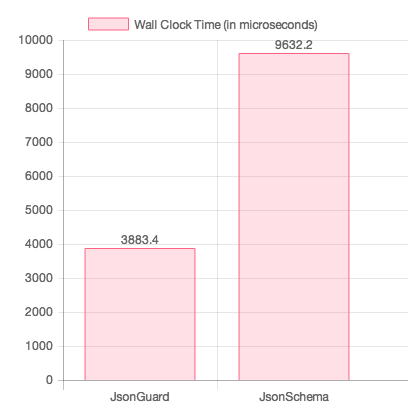
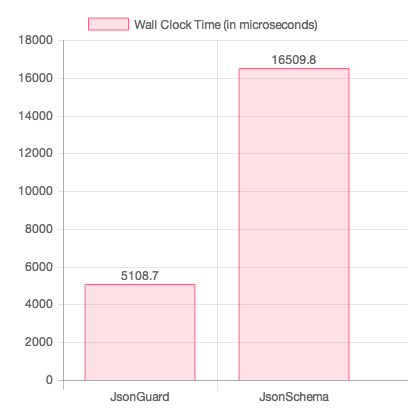
Rebuild readme when generating reports

diff --git a/README.md b/README.md
@@ -4,19 +4,82 @@
 
 This repo is a (WIP) benchmark of JSON Schema validators for PHP.
 
-## Tests
+## Meta Schema Validaton
 
-### Meta Validation
+### Introduction
 
-This test validates the [JSON Schema Meta-Schema](http://json-schema.org/documentation.html) against itself.
+This test checks the performance of validating the meta schema which defines JSON Schema against itself.  The meta schema contains a lot of references and most (all?) allowed validation keywords, so it's a pretty good way to check performance.
 
-[View Results](reports/validating-the-meta-schema.md)
+### Time To Validate
 
-### Composer
+![validation-speed](/reports/validating-the-meta-schema-wt.png)
 
-This test validates the `composer.json` schema used by Composer against sample data.
+| Validator | Wall Clock Time (in microseconds) |
+|-----------|:---------------------------------:|
+| JsonGuard | 15802.8 |
+| JsonSchema | 96509.7 |
 
-[View Results](reports/validating-composer.md)
+### Memory usage
+
+![validation-memory-usage](/reports/validating-the-meta-schema-pmu.png)
+
+| Validator | Peak Memory Usage (in bytes) |
+|-----------|:----------------------------:|
+| JsonGuard | 138158.4 |
+| JsonSchema | 162374.4 |
+
+## Draft Four Compliance
+
+### Description
+
+This test uses the official JSON Schema test suite to determine the validator's compliance with the official Draft 4 specification.
+
+### Results
+
+![test-failures](/reports/draft-four-compliance-failures.png)
+
+| Validator | Total Test Failures |
+|-----------|:---------------------------------:|
+| JsonGuard | 0 |
+| JsonSchema | 6 |
+
+
+### JsonGuard
+
+No test failures.
+
+### JsonSchema
+
+* change resolution scope : changed scope ref valid
+* change resolution scope : changed scope ref valid
+* change resolution scope : changed scope ref invalid
+* integer : a bignum is an integer
+* number : a bignum is a number
+* string : a bignum is not a string
+
+## Composer Schema Validaton
+
+### Introduction
+
+This test checks the performance of validating a composer.json file against the schema the composer project uses.  This test was picked because it's an actual schema being used for a single file without references.  This should give a decent indication of performance when validating without references.
+
+### Time To Validate
+
+![validation-speed](/reports/validating-composer-wt.png)
+
+| Validator | Wall Clock Time (in microseconds) |
+|-----------|:---------------------------------:|
+| JsonGuard | 5108.7 |
+| JsonSchema | 16509.8 |
+
+### Memory usage
+
+![validation-memory-usage](/reports/validating-composer-pmu.png)
+
+| Validator | Peak Memory Usage (in bytes) |
+|-----------|:----------------------------:|
+| JsonGuard | 143384 |
+| JsonSchema | 170696 |
 
 ## Credits
 

diff --git a/templates/README.md b/templates/README.md
@@ -1,0 +1,34 @@
+# JSON Schema Benchmark (For PHP)
+
+## Introduction
+
+This repo is a (WIP) benchmark of JSON Schema validators for PHP.
+
+### How It Works
+
+The validators are profiled using the [Blackfire PHP SDK](https://blackfire.io/docs/reference-guide/php-sdk).
+
+The test results are ran through phantom.js to build the charts and then through twig to build markdown.
+
+### Running The Tests
+
+First you need to start a test server, which is used to test loading remote references:
+
+```bash
+$ node server.js
+```
+
+Now you can run the tests:
+
+```bash
+$ php build-reports
+```
+
+
+{{ validating_the_meta_schema|raw }}
+{{ draft_four_compliance|raw }}
+{{ validating_composer|raw }}
+
+## Credits
+
+The files [`fixtures/data/composer.json`](fixtures/data/composer.json) and [`fixtures/schema/composer-schema.json`](fixtures/schema/composer-schema.json) are from the [Composer project](https://github.com/composer/composer) and Licensed under the MIT license.  Copyright (c) 2016 Nils Adermann, Jordi Boggiano.

diff --git a/reports/validating-composer.md b/reports/validating-composer.md
@@ -1,19 +1,19 @@
-# Composer Schema Validaton
+## Composer Schema Validaton
 
-## Introduction
+### Introduction
 
 This test checks the performance of validating a composer.json file against the schema the composer project uses.  This test was picked because it's an actual schema being used for a single file without references.  This should give a decent indication of performance when validating without references.
 
-## Time To Validate
+### Time To Validate
 
 ![validation-speed](/reports/validating-composer-wt.png)
 
 | Validator | Wall Clock Time (in microseconds) |
 |-----------|:---------------------------------:|
-| JsonGuard | 3883.4 |
-| JsonSchema | 9632.2 |
+| JsonGuard | 5108.7 |
+| JsonSchema | 16509.8 |
 
-## Memory usage
+### Memory usage
 
 ![validation-memory-usage](/reports/validating-composer-pmu.png)
 

diff --git a/reports/validating-the-meta-schema.md b/reports/validating-the-meta-schema.md
@@ -1,19 +1,19 @@
-# Meta Schema Validaton
+## Meta Schema Validaton
 
-## Introduction
+### Introduction
 
 This test checks the performance of validating the meta schema which defines JSON Schema against itself.  The meta schema contains a lot of references and most (all?) allowed validation keywords, so it's a pretty good way to check performance.
 
-## Time To Validate
+### Time To Validate
 
 ![validation-speed](/reports/validating-the-meta-schema-wt.png)
 
 | Validator | Wall Clock Time (in microseconds) |
 |-----------|:---------------------------------:|
-| JsonGuard | 15296.9 |
-| JsonSchema | 79044.1 |
+| JsonGuard | 15802.8 |
+| JsonSchema | 96509.7 |
 
-## Memory usage
+### Memory usage
 
 ![validation-memory-usage](/reports/validating-the-meta-schema-pmu.png)
 

diff --git a/templates/composer.md b/templates/composer.md
@@ -1,10 +1,10 @@
-# Composer Schema Validaton
+## Composer Schema Validaton
 
-## Introduction
+### Introduction
 
 This test checks the performance of validating a composer.json file against the schema the composer project uses.  This test was picked because it's an actual schema being used for a single file without references.  This should give a decent indication of performance when validating without references.
 
-## Time To Validate
+### Time To Validate
 
 ![validation-speed]({{ chart.wt }})
 
@@ -14,7 +14,7 @@ This test checks the performance of validating a composer.json file against the 
 | {{ subject }} | {{ result.wt }} |
 {% endfor %}
 
-## Memory usage
+### Memory usage
 
 ![validation-memory-usage]({{ chart.pmu }})
 

diff --git a/templates/meta-schema.md b/templates/meta-schema.md
@@ -1,10 +1,10 @@
-# Meta Schema Validaton
+## Meta Schema Validaton
 
-## Introduction
+### Introduction
 
 This test checks the performance of validating the meta schema which defines JSON Schema against itself.  The meta schema contains a lot of references and most (all?) allowed validation keywords, so it's a pretty good way to check performance.
 
-## Time To Validate
+### Time To Validate
 
 ![validation-speed]({{ chart.wt }})
 
@@ -14,7 +14,7 @@ This test checks the performance of validating the meta schema which defines JSO
 | {{ subject }} | {{ result.wt }} |
 {% endfor %}
 
-## Memory usage
+### Memory usage
 
 ![validation-memory-usage]({{ chart.pmu }})
 

diff --git a/reports/draft-four-compliance.md b/reports/draft-four-compliance.md
@@ -1,10 +1,10 @@
-# Draft Four Compliance
+## Draft Four Compliance
 
-## Description
+### Description
 
 This test uses the official JSON Schema test suite to determine the validator's compliance with the official Draft 4 specification.
 
-## Results
+### Results
 
 ![test-failures](/reports/draft-four-compliance-failures.png)
 
@@ -14,11 +14,11 @@ This test uses the official JSON Schema test suite to determine the validator's 
 | JsonSchema | 6 |
 
 
-## JsonGuard
+### JsonGuard
 
 No test failures.
 
-## JsonSchema
+### JsonSchema
 
 * change resolution scope : changed scope ref valid
 * change resolution scope : changed scope ref valid

diff --git a/templates/draft-four-compliance.md b/templates/draft-four-compliance.md
@@ -1,10 +1,10 @@
-# Draft Four Compliance
+## Draft Four Compliance
 
-## Description
+### Description
 
 This test uses the official JSON Schema test suite to determine the validator's compliance with the official Draft 4 specification.
 
-## Results
+### Results
 
 ![test-failures]({{ chart.failures }})
 
@@ -16,7 +16,7 @@ This test uses the official JSON Schema test suite to determine the validator's 
 
 {% for subject, result in results %}
 
-## {{ subject }}
+### {{ subject }}
 
 {% if result.messages %}
 {% for message in result.messages %}
